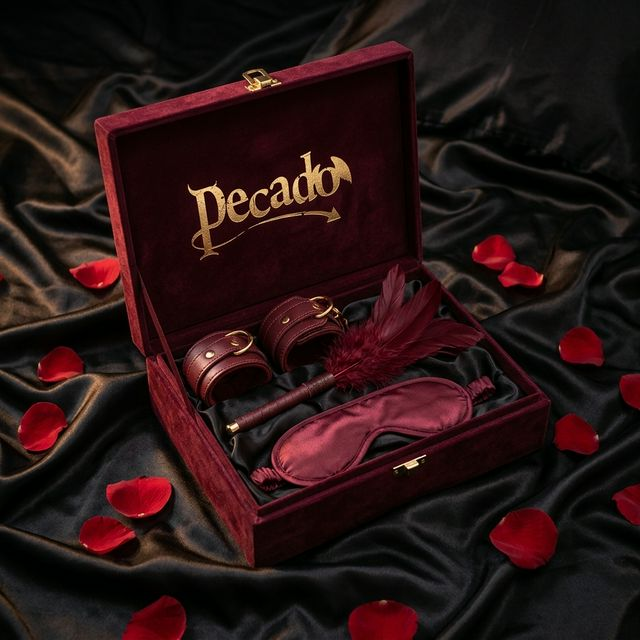
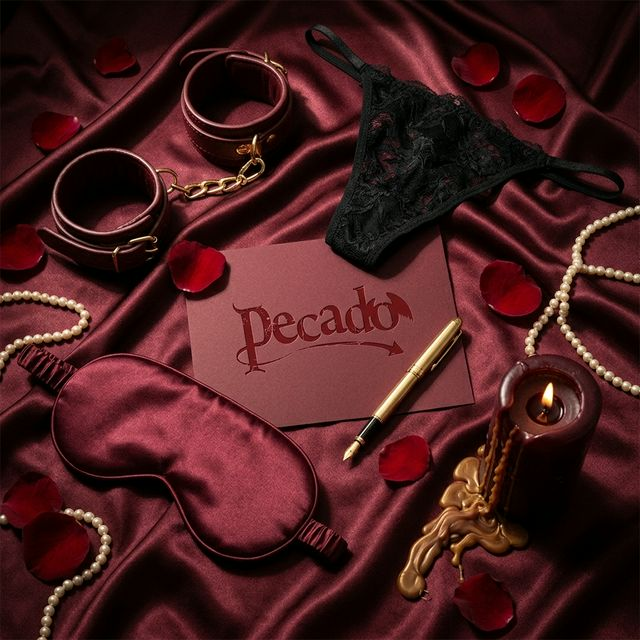
feat: диалог «Добро пожаловать» после онбординга + правки
- WelcomeDialog с тематической картинкой Pecado после завершения анкеты
- Лейбл «Ваше ФИО или Название компании» вместо «Имя / Название»
- Перегенерирована картинка страницы регистрации (flat lay на бордовом сатине)

diff --git a/resources/js/components/common/WelcomeDialog.jsx b/resources/js/components/common/WelcomeDialog.jsx
@@ -1,0 +1,144 @@
+import { useState } from 'react';
+import { Box, Flex, Text, Button, VStack } from '@chakra-ui/react';
+import { Link } from '@inertiajs/react';
+
+export default function WelcomeDialog({ userName }) {
+    const [open, setOpen] = useState(true);
+
+    if (!open) return null;
+
+    const displayName = userName || 'Партнёр';
+
+    return (
+        <Box
+            position="fixed"
+            inset="0"
+            zIndex="9999"
+            display="flex"
+            alignItems="center"
+            justifyContent="center"
+        >
+            {/* Backdrop */}
+            <Box
+                position="absolute"
+                inset="0"
+                bg="blackAlpha.700"
+                backdropFilter="blur(8px)"
+                onClick={() => setOpen(false)}
+            />
+
+            {/* Dialog Card */}
+            <Box
+                position="relative"
+                w={{ base: '92vw', sm: '480px' }}
+                maxW="480px"
+                borderRadius="2xl"
+                overflow="hidden"
+                boxShadow="0 25px 50px rgba(0,0,0,0.5)"
+                animation="fadeInUp 0.5s ease"
+            >
+                {/* Hero Background Image */}
+                <Box position="relative" h="260px" overflow="hidden">
+                    <Box
+                        as="img"
+                        src="/images/welcome-bg.png"
+                        alt=""
+                        position="absolute"
+                        inset="0"
+                        w="100%"
+                        h="100%"
+                        objectFit="cover"
+                    />
+                    {/* Gradient overlay for text readability */}
+                    <Box
+                        position="absolute"
+                        inset="0"
+                        bg="linear-gradient(180deg, rgba(0,0,0,0.1) 0%, rgba(0,0,0,0.6) 100%)"
+                    />
+                </Box>
+
+                {/* Content */}
+                <Box
+                    bg="white"
+                    px={{ base: 6, sm: 8 }}
+                    py={8}
+                >
+                    <VStack gap={3} align="center" textAlign="center">
+                        <Text
+                            fontSize="2xl"
+                            fontWeight="bold"
+                            color="gray.900"
+                            letterSpacing="-0.02em"
+                        >
+                            Добро пожаловать, {displayName}! 🎉
+                        </Text>
+                        <Text
+                            fontSize="md"
+                            color="gray.500"
+                            lineHeight="1.6"
+                            maxW="360px"
+                        >
+                            Спасибо за регистрацию в Pecado! Мы рады приветствовать вас
+                            в нашей партнёрской программе.
+                        </Text>
+                        <Text
+                            fontSize="sm"
+                            color="gray.400"
+                            lineHeight="1.5"
+                        >
+                            Изучите каталог, добавьте товары в корзину и оформите первый заказ.
+                        </Text>
+
+                        <Flex gap={3} mt={4} w="100%" direction={{ base: 'column', sm: 'row' }} justify="center">
+                            <Link href="/catalog">
+                                <Button
+                                    bg="#9e1b32"
+                                    color="white"
+                                    size="lg"
+                                    borderRadius="xl"
+                                    fontWeight="semibold"
+                                    fontSize="sm"
+                                    px={8}
+                                    w={{ base: '100%', sm: 'auto' }}
+                                    _hover={{ bg: '#7a1527' }}
+                                    transition="all 0.2s ease"
+                                >
+                                    Перейти в каталог
+                                </Button>
+                            </Link>
+                            <Button
+                                variant="outline"
+                                borderColor="gray.300"
+                                color="gray.600"
+                                size="lg"
+                                borderRadius="xl"
+                                fontWeight="medium"
+                                fontSize="sm"
+                                px={6}
+                                w={{ base: '100%', sm: 'auto' }}
+                                _hover={{ bg: 'gray.50' }}
+                                onClick={() => setOpen(false)}
+                            >
+                                Закрыть
+                            </Button>
+                        </Flex>
+                    </VStack>
+                </Box>
+            </Box>
+
+            {/* CSS Animation */}
+            <style>{`
+                @keyframes fadeInUp {
+                    from {
+                        opacity: 0;
+                        transform: translateY(30px) scale(0.95);
+                    }
+                    to {
+                        opacity: 1;
+                        transform: translateY(0) scale(1);
+                    }
+                }
+            `}</style>
+        </Box>
+    );
+}

diff --git a/resources/js/Pages/Auth/Onboarding.jsx b/resources/js/Pages/Auth/Onboarding.jsx
@@ -314,7 +314,7 @@ export default function Onboarding({ questionnaire, rootCategories = [], user = 
                             {currentStep === 'personal' && (
                                 <VStack gap={4} align="stretch">
                                     <Field
-                                        label={<Text fontSize="sm" fontWeight="medium" color="gray.700">Имя / Название</Text>}
+                                        label={<Text fontSize="sm" fontWeight="medium" color="gray.700">Ваше ФИО или Название компании</Text>}
                                         invalid={!!personalErrors.name}
                                         errorText={personalErrors.name}
                                         required
@@ -322,7 +322,7 @@ export default function Onboarding({ questionnaire, rootCategories = [], user = 
                                         <Input
                                             value={data.name}
                                             onChange={(e) => setData('name', e.target.value)}
-                                            placeholder="Иванов Иван Иванович или ООО Рога и Копыта"
+                                            placeholder="Иванов Иван Иванович или ООО Компания"
                                             {...inputStyles}
                                         />
                                     </Field>

diff --git a/resources/js/Pages/User/Home.jsx b/resources/js/Pages/User/Home.jsx
@@ -1,11 +1,12 @@
 import { Box } from '@chakra-ui/react';
-import { Head } from '@inertiajs/react';
+import { Head, usePage } from '@inertiajs/react';
 import UserLayout from './UserLayout';
 import SeoHead from '@/components/common/SeoHead';
 import BannerSlider from '@/components/banner/BannerSlider';
 import StoryCircles from '@/components/stories/StoryCircles';
 import ProductSelectionTabs from '@/components/product/ProductSelectionCarousel';
 import ProductGrid from '@/components/product/ProductGrid';
+import WelcomeDialog from '@/components/common/WelcomeDialog';
 
 export default function Home({
     banners = [],
@@ -15,8 +16,12 @@ export default function Home({
     bestsellerProducts = [],
     seo,
 }) {
+    const { flash, auth } = usePage().props;
+    const showWelcome = flash?.onboarding_completed;
+
     return (
         <UserLayout>
+            {showWelcome && <WelcomeDialog userName={auth?.user?.name} />}
             <SeoHead seo={seo} />
             <Head title={seo?.title || 'Pecado — Интернет-магазин для взрослых'} />
 

diff --git a/app/Http/Controllers/User/OnboardingController.php b/app/Http/Controllers/User/OnboardingController.php
@@ -87,7 +87,10 @@ class OnboardingController extends Controller
             $questionnaireData
         );
 
-        return redirect('/')->with('success', 'Спасибо за заполнение анкеты! Добро пожаловать!');
+        return redirect('/')->with([
+            'success' => 'Спасибо за заполнение анкеты! Добро пожаловать!',
+            'onboarding_completed' => true,
+        ]);
     }
 
     /**
